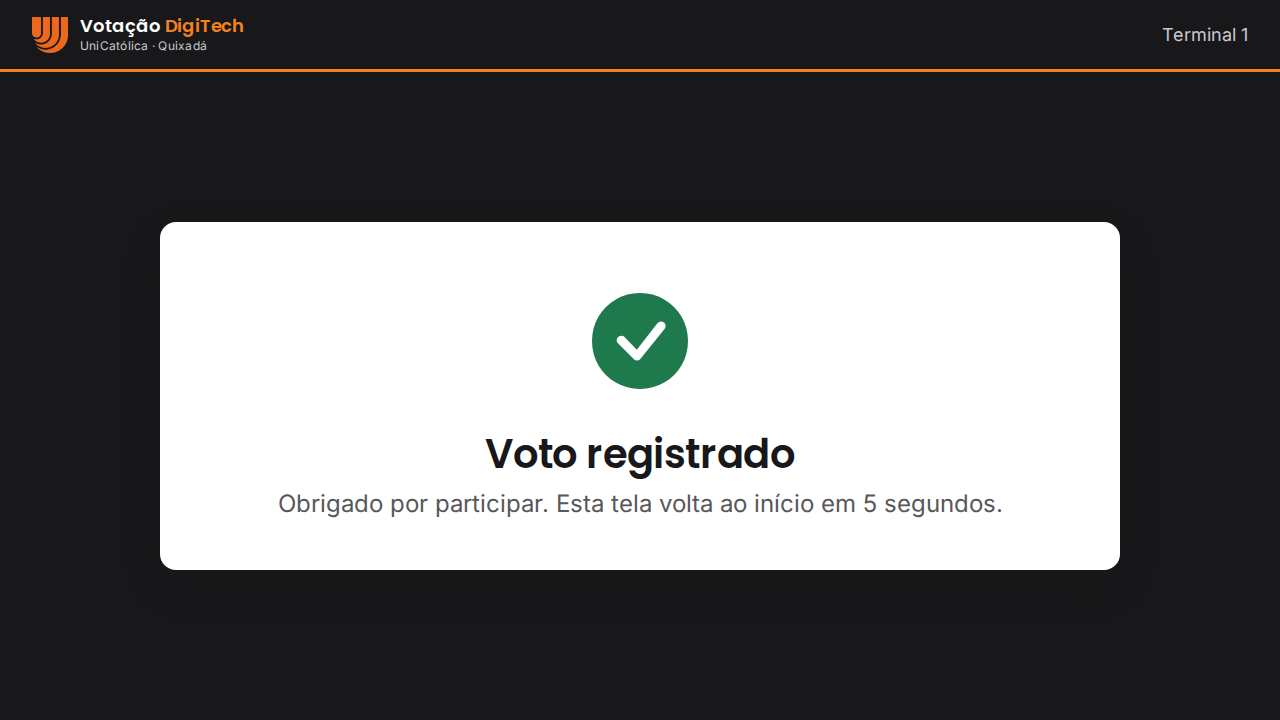
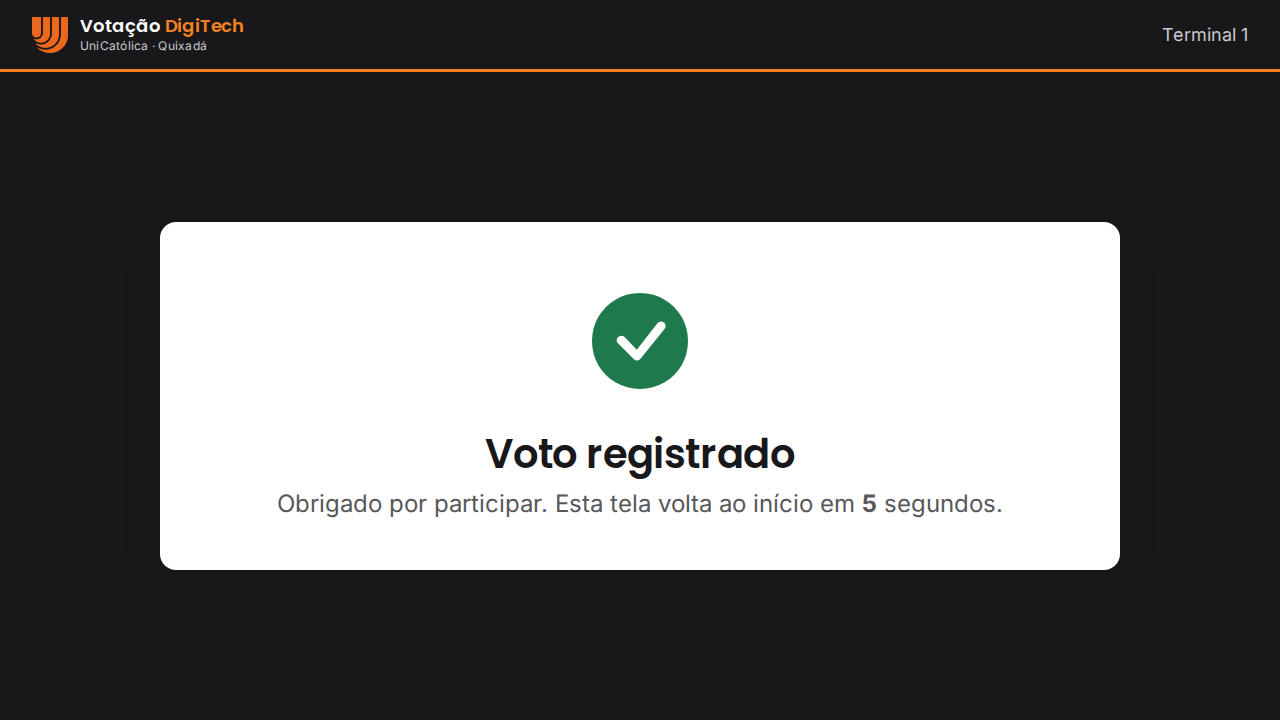
docs: fotos do guia com a contagem regressiva da urna

Changed region(s): [[0.2188, 0.6722, 0.6875, 0.7333]]

diff --git a/docs/GUIA_USUARIO.md b/docs/GUIA_USUARIO.md
@@ -192,7 +192,7 @@ O painel de terminais se atualiza sozinho a cada 5 segundos. Um terminal **Votan
 
    ![Confirmação](guia/urna-confirmacao.png)
 
-3. Pronto: aparece "Voto registrado". A tela não diz em quem a pessoa votou e volta sozinha para "Aguardando liberação" em alguns segundos, pronta para o próximo eleitor.
+3. Pronto: aparece "Voto registrado". A tela não diz em quem a pessoa votou. Uma contagem regressiva de 5 segundos mostra quando ela volta sozinha para "Aguardando liberação", pronta para o próximo eleitor.
 
    ![Voto registrado](guia/urna-registrado.png)
 
